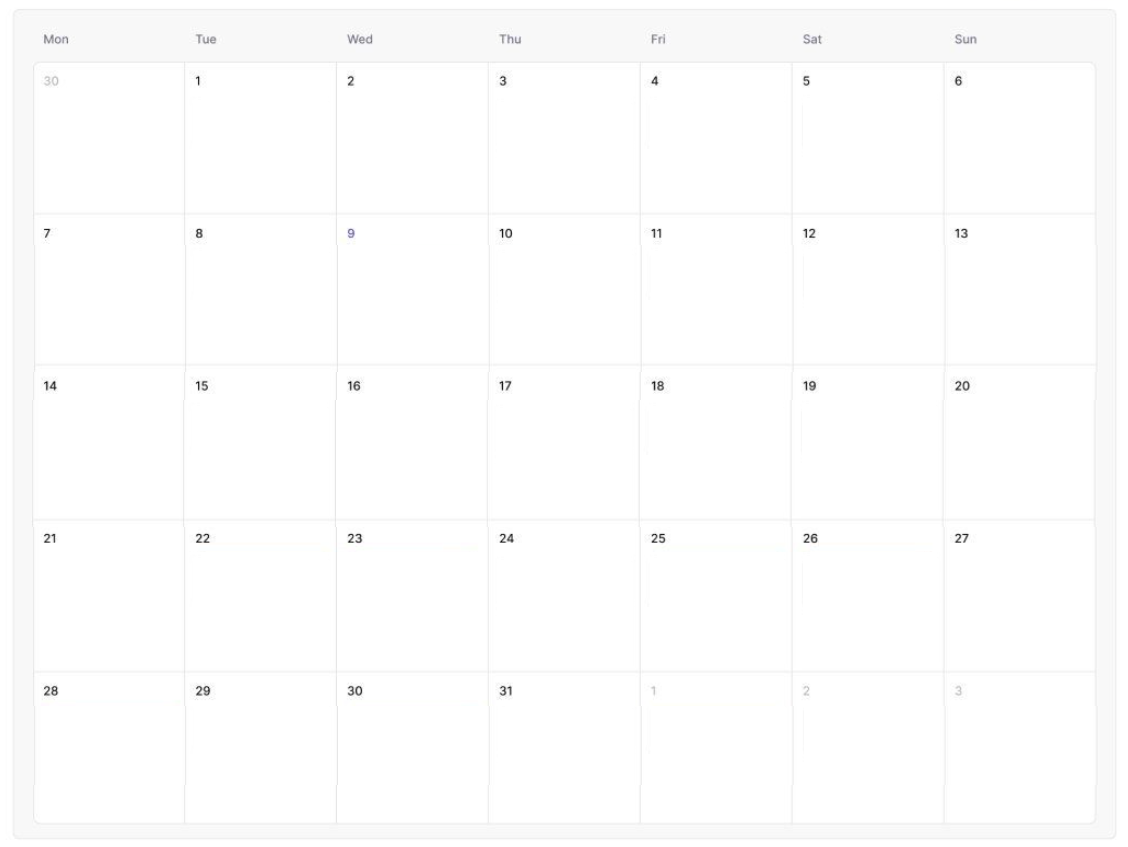
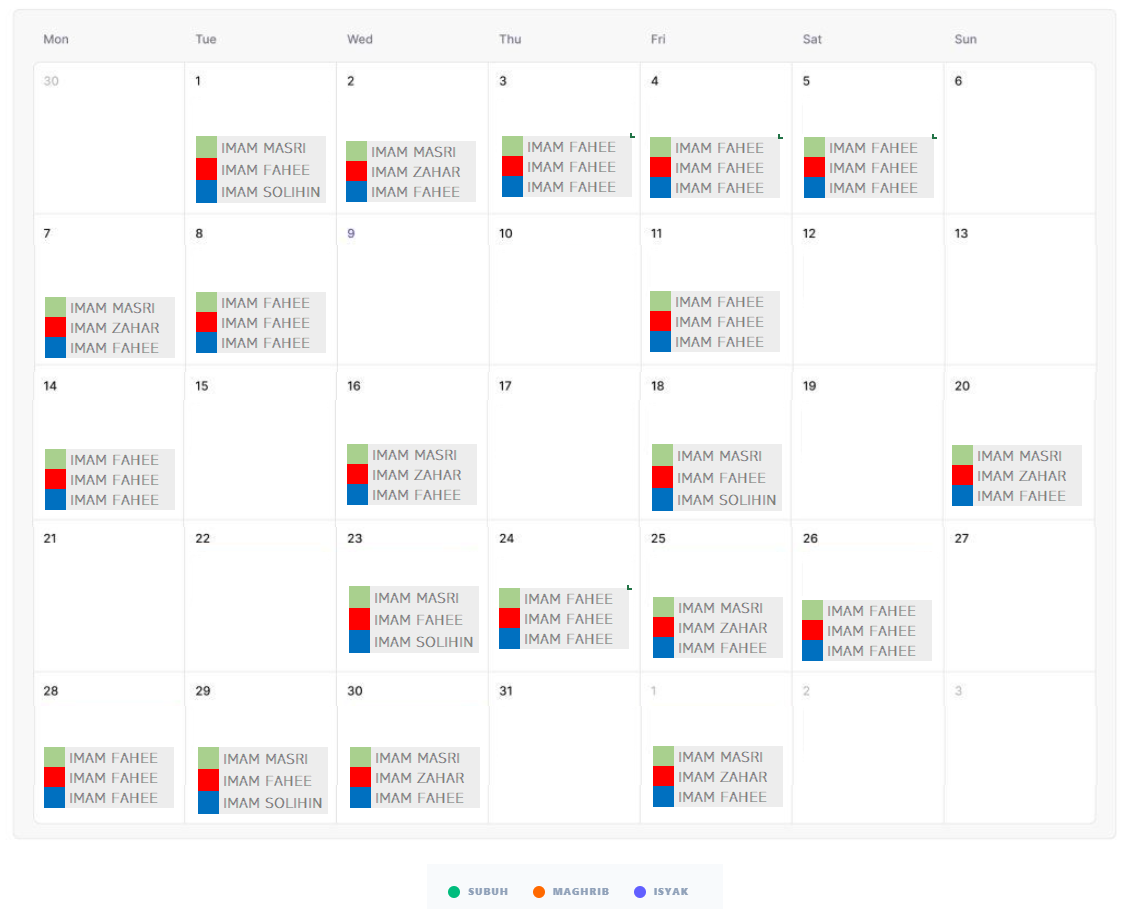
add tracker to app

diff --git a/src/utils/telegram.ts b/src/utils/telegram.ts
@@ -1,0 +1,32 @@
+const TELEGRAM_BOT_TOKEN = import.meta.env.VITE_TELEGRAM_BOT_TOKEN;
+const TELEGRAM_CHAT_ID = import.meta.env.VITE_TELEGRAM_CHAT_ID;
+
+export async function sendTelegramMessage(text: string) {
+    if (!TELEGRAM_BOT_TOKEN || !TELEGRAM_CHAT_ID) {
+        console.warn('Telegram credentials missing, skipping message');
+        return;
+    }
+
+    const url = `https://api.telegram.org/bot${TELEGRAM_BOT_TOKEN.trim()}/sendMessage`;
+
+    try {
+        const response = await fetch(url, {
+            method: 'POST',
+            headers: {
+                'Content-Type': 'application/json',
+            },
+            body: JSON.stringify({
+                chat_id: TELEGRAM_CHAT_ID.trim(),
+                text: text,
+                parse_mode: 'HTML'
+            }),
+        });
+
+        if (!response.ok) {
+            const data = await response.json();
+            throw new Error(data.description || 'Failed to send Telegram message');
+        }
+    } catch (error) {
+        console.error('Error sending Telegram message:', error);
+    }
+}

diff --git a/src/services/authTracker.ts b/src/services/authTracker.ts
@@ -1,0 +1,22 @@
+import { User } from 'firebase/auth';
+import { sendTelegramMessage } from '../utils/telegram';
+
+export const trackLogin = async (user: User | null) => {
+    if (!user) return;
+
+    const timestamp = new Date().toLocaleString('ms-MY', { timeZone: 'Asia/Kuala_Lumpur' });
+    const message = `🔔 <b>Login Notification</b>\n\n👤 User: ${user.displayName || user.email}\n📧 Email: ${user.email}\n⏰ Time: ${timestamp}`;
+
+    console.log(`[AuthTracker] Tracking login for ${user.email}`);
+    await sendTelegramMessage(message);
+};
+
+export const trackLogout = async (user: User | null) => {
+    if (!user) return;
+
+    const timestamp = new Date().toLocaleString('ms-MY', { timeZone: 'Asia/Kuala_Lumpur' });
+    const message = `🔕 <b>Logout Notification</b>\n\n👤 User: ${user.displayName || user.email}\n📧 Email: ${user.email}\n⏰ Time: ${timestamp}`;
+
+    console.log(`[AuthTracker] Tracking logout for ${user.email}`);
+    await sendTelegramMessage(message);
+};

diff --git a/src/App.tsx b/src/App.tsx
@@ -2,7 +2,7 @@ import { onAuthStateChanged, User } from 'firebase/auth';
 import { LogIn, Loader2 } from 'lucide-react';
 import { useEffect, useState } from 'react';
 import { BrowserRouter, Route, Routes, Navigate } from 'react-router-dom';
-import { auth, loginWithGoogle } from './lib/firebase';
+import { auth, loginWithGoogle, logout } from './lib/firebase';
 import { testFirestoreConnection } from './lib/testConnection';
 import Navbar from './components/layout/Navbar';
 import AttendanceTracker from './components/attendance/AttendanceTracker';
@@ -12,6 +12,20 @@ import MonthlyRotationManager from './components/rotation/MonthlyRotationManager
 import { Button } from './components/ui/Common';
 import logo from './assets/images/logo.jpg';
 import loginBg from './assets/images/login-bg.png';
+import { trackLogin, trackLogout } from "./services/authTracker";
+
+
+
+onAuthStateChanged(auth, async (user) => {
+  if (user) {
+    await trackLogin(user);
+  }
+});
+
+const handleLogout = async () => {
+  await trackLogout(auth.currentUser);
+  await logout();
+};
 
 export default function App() {
   const [user, setUser] = useState<User | null>(null);